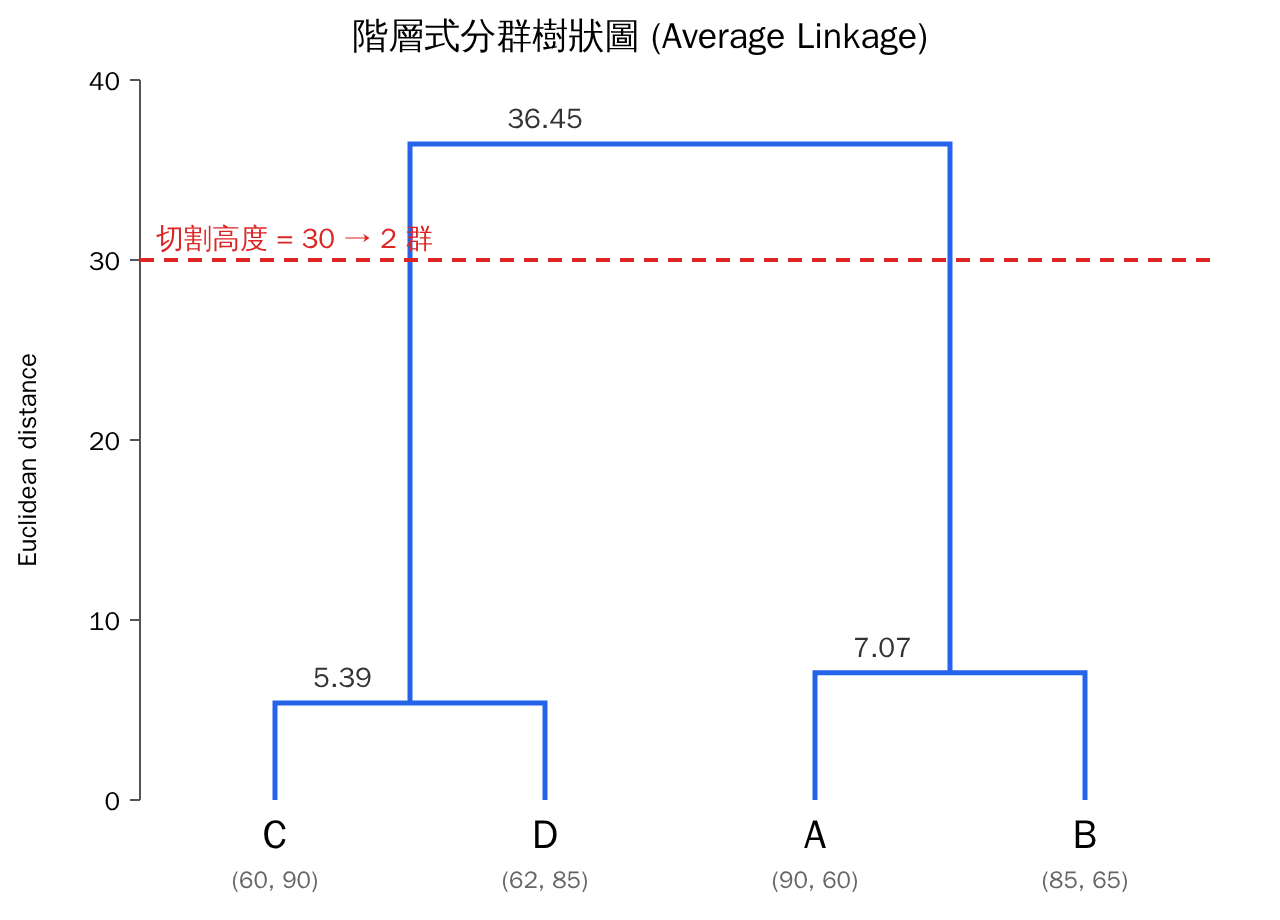
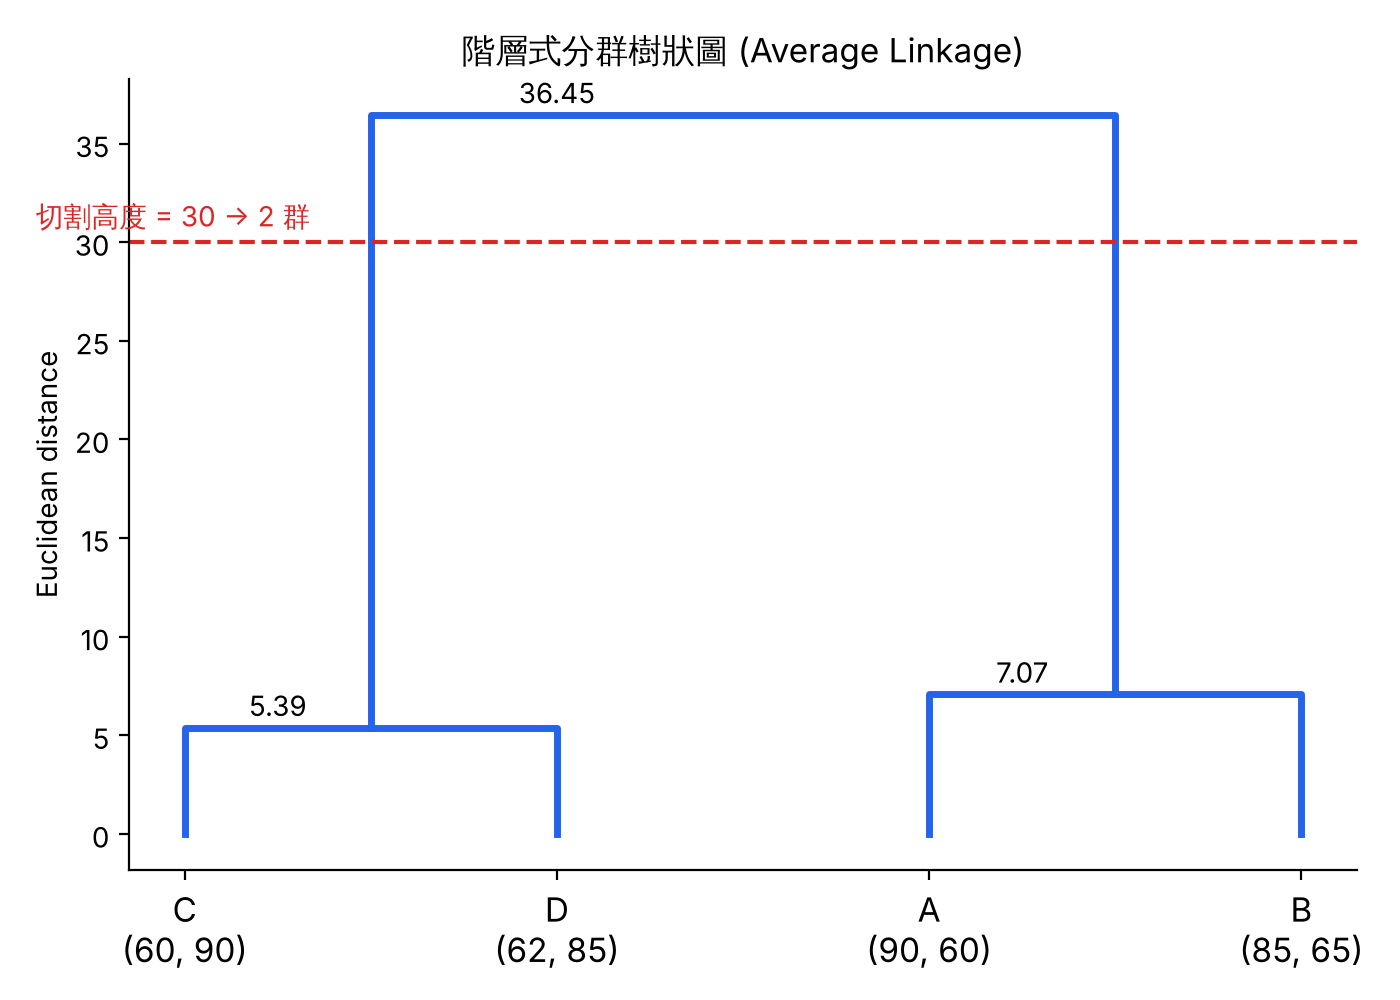
week10: plot dendrogram and K-means scatter with matplotlib
Claude-Session: https://claude.ai/code/session_01Fnj7sGSdiJP6rGRQKPfDxx

diff --git a/week10/homework/plot_results.py b/week10/homework/plot_results.py
@@ -1,0 +1,63 @@
+"""用 matplotlib 畫圖（僅畫圖用，計算仍由 kmean.py / hierarchical.py 的標準庫程式完成）"""
+import io, contextlib, os
+import matplotlib
+matplotlib.use("Agg")
+import matplotlib.pyplot as plt
+from matplotlib import font_manager
+
+import kmean
+from hierarchical import agglomerate, flatten, CUT_HEIGHT, DATA
+
+for f in ("WenQuanYi Zen Hei", "Noto Sans CJK TC", "Microsoft JhengHei"):
+    if any(f == x.name for x in font_manager.fontManager.ttflist):
+        plt.rcParams["font.sans-serif"] = [f]
+        break
+plt.rcParams["axes.unicode_minus"] = False
+HERE = os.path.dirname(os.path.abspath(__file__))
+
+# ---- 1. 樹狀圖 ----
+with contextlib.redirect_stdout(io.StringIO()):
+    tree, height, _ = agglomerate()
+order = flatten(tree)
+xs = {n: i for i, n in enumerate(order)}
+fig, ax = plt.subplots(figsize=(7, 5))
+
+def draw(n):
+    if isinstance(n, str):
+        return xs[n], 0.0
+    (x1, h1), (x2, h2) = draw(n[0]), draw(n[1])
+    h = height[tuple(sorted(flatten(n)))]
+    ax.plot([x1, x1, x2, x2], [h1, h, h, h2], color="#2563eb", lw=2.5)
+    ax.text(min(x1, x2) + abs(x2 - x1) * 0.25, h + 0.6, f"{h:.2f}", ha="center")
+    return (x1 + x2) / 2, h
+
+draw(tree)
+ax.axhline(CUT_HEIGHT, color="#dc2626", ls="--")
+ax.text(-0.4, CUT_HEIGHT + 0.8, f"切割高度 = {CUT_HEIGHT} → 2 群", color="#dc2626")
+ax.set_xticks(range(len(order)))
+ax.set_xticklabels([f"{n}\n{DATA[n]}" for n in order], fontsize=12)
+ax.set_ylabel("Euclidean distance")
+ax.set_title("階層式分群樹狀圖 (Average Linkage)")
+ax.spines[["top", "right"]].set_visible(False)
+fig.tight_layout()
+fig.savefig(os.path.join(HERE, "dendrogram.png"), dpi=200)
+
+# ---- 2. K-means 散佈圖 ----
+ids, pts, truth = kmean.load(kmean.CSV_PATH)
+labels, centers, _, _ = kmean.kmeans(pts, kmean.K)
+acc, mapping = kmean.accuracy(labels, truth)
+fig, axes = plt.subplots(1, 2, figsize=(12, 5), sharex=True, sharey=True)
+colors = {"A": "#2563eb", "B": "#f59e0b", "C": "#16a34a"}
+for ax, title, cl in ((axes[0], "K-means 分群結果", [mapping[l] for l in labels]),
+                      (axes[1], "真實群 (true_cluster)", truth)):
+    for n in "ABC":
+        sel = [p for p, c in zip(pts, cl) if c == n]
+        ax.scatter([p[0] for p in sel], [p[1] for p in sel], s=22, c=colors[n], label=n, alpha=.8)
+    ax.set_title(title); ax.set_xlabel("chinese"); ax.legend()
+axes[0].set_ylabel("english")
+axes[0].scatter([c[0] for c in centers], [c[1] for c in centers], marker="X", s=200,
+                c="red", edgecolors="black", label="centroid", zorder=5)
+fig.suptitle(f"K=3 準確度 {acc:.2%}")
+fig.tight_layout()
+fig.savefig(os.path.join(HERE, "kmeans_scatter.png"), dpi=150)
+print("done")
